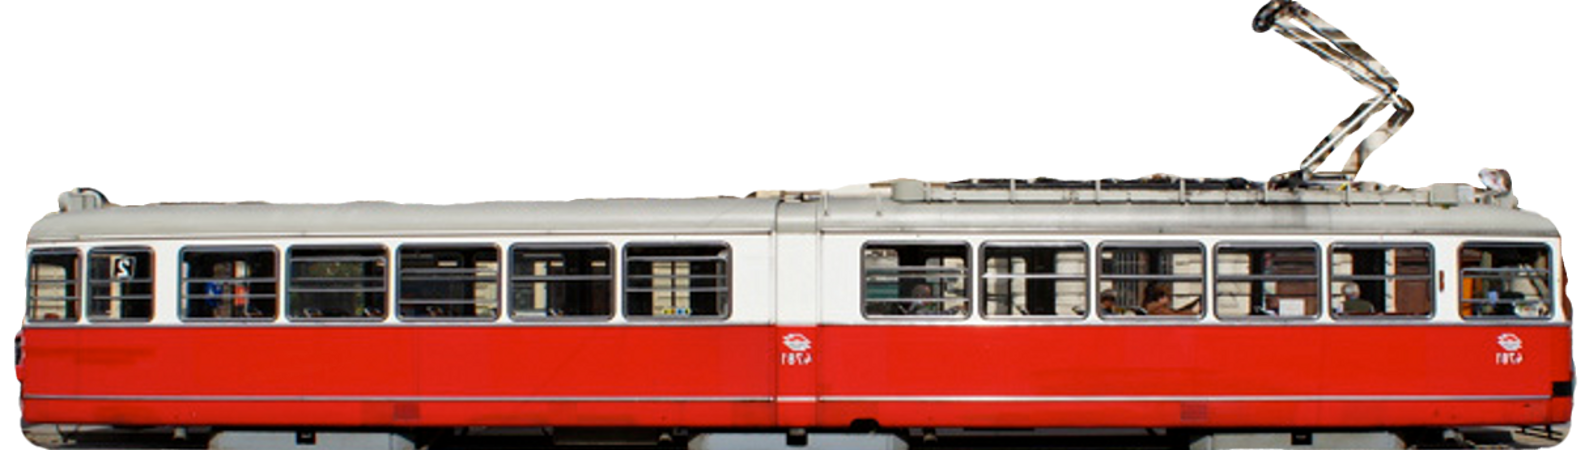
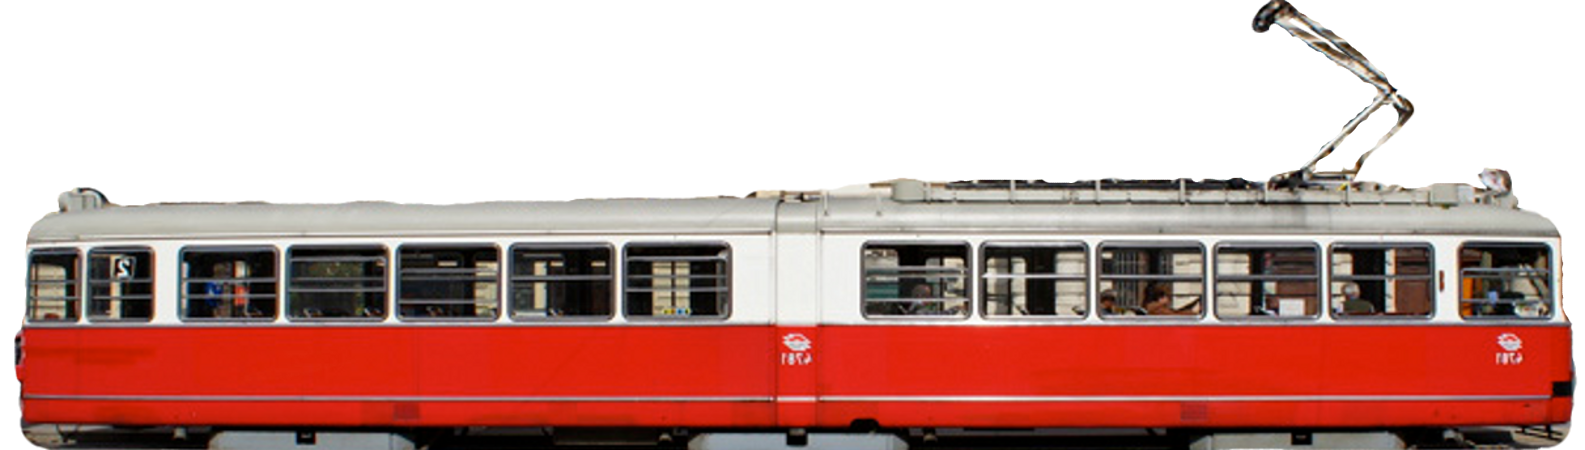
Adds social button functionality and updated tramway img

diff --git a/final/js/main.js b/final/js/main.js
@@ -81,5 +81,15 @@ $(document).ready(function(){
 	    $(this).css("opacity", (index+1)/3);
 	});
 
+	// social buttons
+	$('.fb_like').click(function(){
+		window.location.href = "http://www.facebook.com/sharer.php?u=http://www.patrick-wied.at/projects/a-story-about-vienna/&t=Vienna is beautiful. find out why!";
+	});
+	$('.email').click(function(){
+		window.location.href = "mailto:email@hotmail.com?subject=Vienna is beautiful&body=http://www.patrick-wied.at/projects/a-story-about-vienna/";
+	});
+	$('.tweet').click(function(){
+		window.location.href = "https://twitter.com/intent/tweet?url=http://www.patrick-wied.at/projects/a-story-about-vienna/&text=Vienna is beautiful. find out why!";
+	});
 
 });

diff --git a/final/css/main.css b/final/css/main.css
@@ -392,6 +392,10 @@ border-top-color: #fff;
     box-shadow:0 0 10px 5px rgba(200,0,0,.3);
 }
 
+.circle:hover {
+    cursor:pointer;
+}
+
 /* ==========================================================================
    Media Queries
    ========================================================================== */
